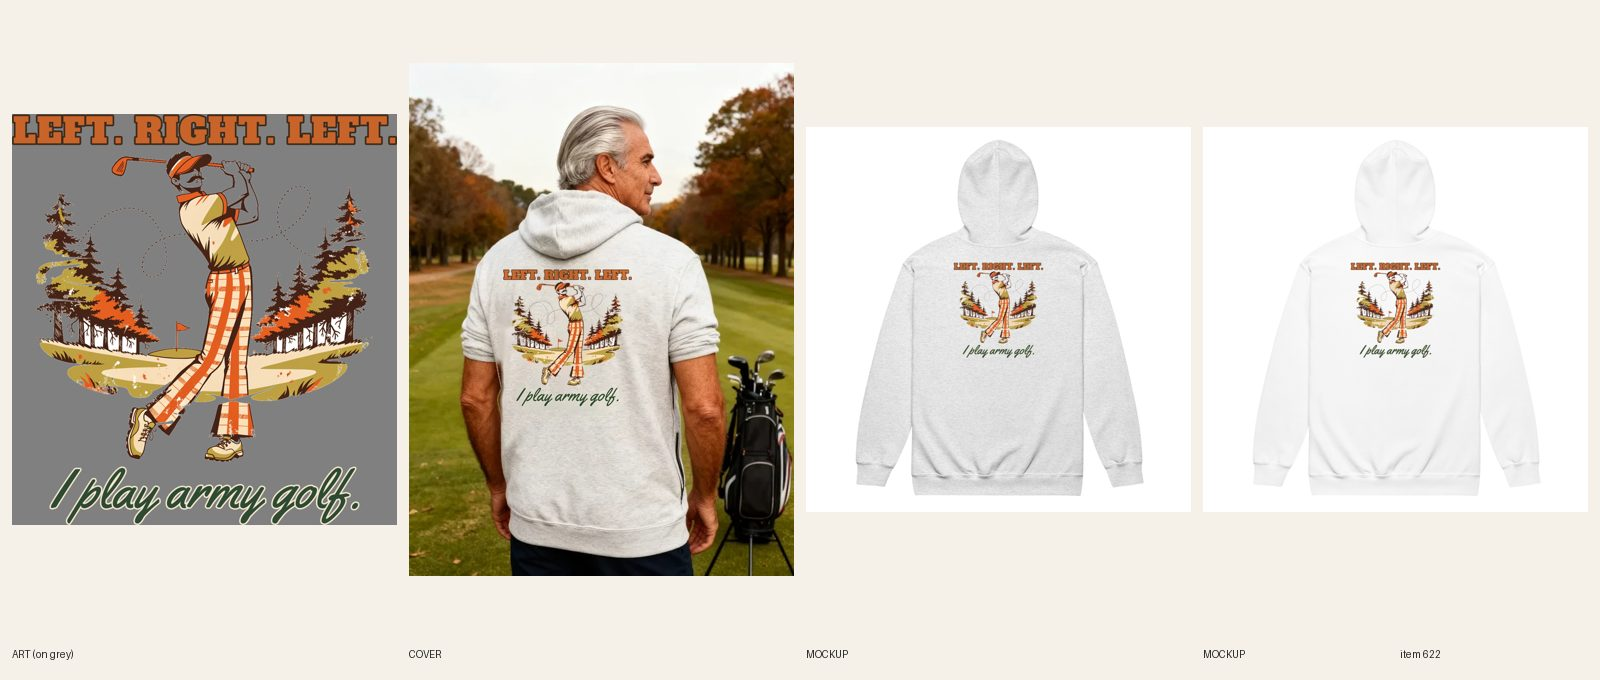
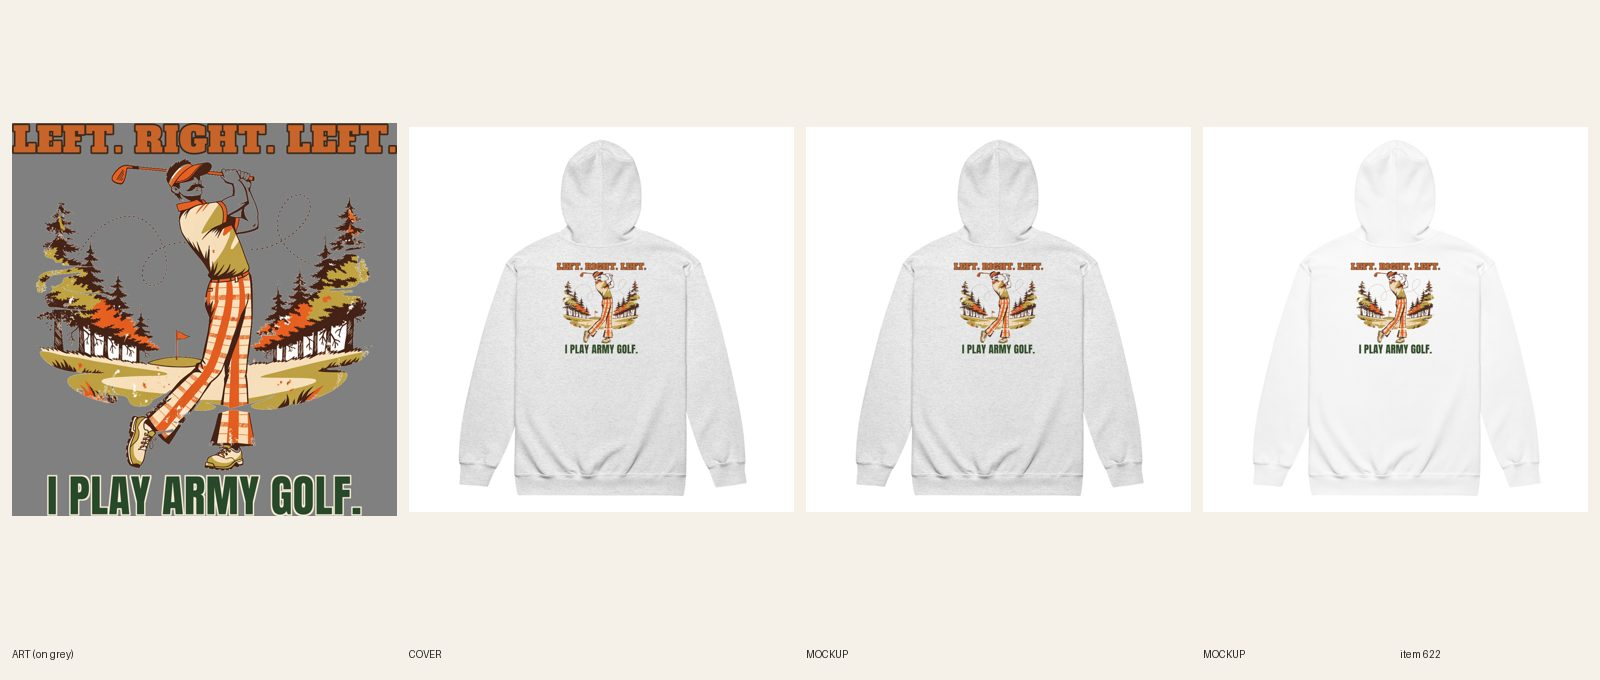
[C] review 622 (redo)
Claude-Session: https://claude.ai/code/session_01CCHcDj8LcJJ8qUPtKE3cvn

Changed region(s): [[0.0, 0.0926, 0.5, 0.8647], [0.8438, 0.4941, 0.9062, 0.525], [0.5938, 0.4941, 0.6562, 0.525]]

diff --git a/scripts/c-zip.py b/scripts/c-zip.py
@@ -1,0 +1,27 @@
+#!/usr/bin/env python3
+"""c-zip.py <dir> <sync_pid> <chest_fid> <BW> <BT> <CW> Colors=back.png [Colors=back2.png ...]   (lane C zip-up hoodie redo, Gildan 18600 #692)
+Uploads each back print, starts the paced pf-zip.py sync (back + the existing chest file) per color in the background (<dir>/sync_<Color>.log),
+makes one back mockup per color (<dir>/m_<Color>.jpg, murl_<Color>.txt). 'A+B' shares one file."""
+import os, sys, json, subprocess, time, urllib.request, shlex
+d, pid, chest, bw, bt, cw = sys.argv[1:7]; pairs = [a.split('=', 1) for a in sys.argv[7:]]
+H = {'Authorization': 'Bearer ' + os.environ['PRINTFUL_TOKEN'], 'User-Agent': 'gtc'}
+def get(p): return json.load(urllib.request.urlopen(urllib.request.Request('https://api.printful.com' + p, headers=H), timeout=60))['result']
+vs = get(f'/sync/products/{pid}')['sync_variants']; cf = get(f'/files/{chest}'); info = {}
+for colors, png in pairs:
+    url = subprocess.check_output([sys.executable, 'scripts/fal-host.py', png], text=True).strip()
+    fid = subprocess.check_output([sys.executable, 'scripts/pf-sync.py', 'upload', url, os.path.basename(png)], text=True).strip()
+    for _ in range(30):
+        f = get(f'/files/{fid}')
+        if f.get('width') and f.get('status') == 'ok': break
+        time.sleep(4)
+    info[colors] = (fid, f['width'], f['height'], f['url']); print(colors, fid, f['width'], f['height'], flush=True); open(f'{d}/fid_{colors}', 'w').write(fid)
+env = dict(os.environ, BW=bw, BT=bt, CW=cw, FORCE='1', CHEST_FID=chest, CHEST_H=str(cf['height']), CHEST_W=str(cf['width']))
+cmds = [f"ONLY={shlex.quote('/ ' + c + ' /')} {sys.executable} scripts/pf-zip.py sync {pid} {fid} {w} {h} > {shlex.quote(d + '/sync_' + c + '.log')} 2>&1" for colors, (fid, w, h, u) in info.items() for c in colors.split('+')]
+subprocess.Popen(['bash', '-c', ' ; '.join(cmds)], env=env, start_new_session=True, stdout=subprocess.DEVNULL, stderr=subprocess.DEVNULL)
+for colors, (fid, w, h, u) in info.items():
+    for c in colors.split('+'):
+        v = next(v for v in vs if f' / {c} / M' in v['name'] or f' / {c} / L' in v['name'])
+        e2 = dict(env, CHEST_URL=cf['url'])
+        subprocess.run([sys.executable, 'scripts/pf-zip.py', 'mockup', '692', u, str(w), str(h), str(v['variant_id']), f'{d}/mock_{c}.json'], env=e2, check=True, stdout=subprocess.DEVNULL)
+        m = json.load(open(f'{d}/mock_{c}.json'))[str(v['variant_id'])]; url = m.get('back:Back') or m['back:main']
+        open(f'{d}/m_{c}.jpg', 'wb').write(urllib.request.urlopen(url).read()); open(f'{d}/murl_{c}.txt', 'w').write(url); print(c, 'MOCKUP', url, flush=True)

diff --git a/designs/c622/make.py b/designs/c622/make.py
@@ -1,0 +1,29 @@
+from PIL import Image, ImageDraw, ImageFont, ImageFilter
+FD='designs/fonts/'
+RED=(196,52,44,255); GREEN=(40,72,42,255); CREAM=(246,236,214,255); BROWN=(58,36,24,255)
+def line(text,font,wfrac,W,fill,key,kw=31,track=0):
+    f=ImageFont.truetype(FD+font,800); adv=[f.getlength(c) for c in text]
+    tot=sum(adv)+track*(len(text)-1); size=int(800*W*wfrac/tot)
+    f=ImageFont.truetype(FD+font,size); adv=[f.getlength(c) for c in text]; tr=int(track*size/800)
+    asc,desc=f.getmetrics(); tot=int(sum(adv)+tr*(len(text)-1))
+    pad=80; im=Image.new('RGBA',(tot+2*pad,asc+desc+2*pad),(0,0,0,0))
+    def draw(layer,col):
+        d=ImageDraw.Draw(layer); x=pad
+        for c,a in zip(text,adv): d.text((x,pad),c,font=f,fill=col); x+=a+tr
+    k=Image.new('L',im.size,0); d=ImageDraw.Draw(k); x=pad
+    for c,a in zip(text,adv): d.text((x,pad),c,font=f,fill=255); x+=a+tr
+    k=k.filter(ImageFilter.MaxFilter(kw)); im.paste(Image.new('RGBA',im.size,key),(0,0),k)
+    draw(im,fill)
+    return im.crop(im.getbbox())
+src=Image.open('docs/print-files/622-army-golf-back.png').convert('RGBA')
+W=src.width; head=src.crop((0,0,W,270)); art=src.crop((0,310,W,2974))
+h2=line("I PLAY ARMY GOLF.",'Anton-Regular.ttf',0.82,W,GREEN,CREAM,kw=25,track=14)
+print('h2',h2.size,'ratio h2/head',h2.height/270)
+g=34; H=270+g+art.height+g+h2.height
+out=Image.new('RGBA',(W,H),(0,0,0,0))
+out.alpha_composite(head,(0,0)); y=270+g
+out.alpha_composite(art,(0,y)); y+=art.height+g
+out.alpha_composite(h2,((W-h2.width)//2,y))
+out.save('docs/print-files/622-v2-army-golf.png'); print(out.size,H/W)
+for n,c in (('ash',(200,200,200,255)),('white',(250,250,250,255))):
+    bg=Image.new('RGBA',out.size,c); bg.alpha_composite(out); bg.convert('RGB').resize((600,int(600*H/W))).save(f'designs/c622/prev_{n}.png')

diff --git a/docs/pipeline/622-golf-zip-hoodie-i-play-army-golf.md b/docs/pipeline/622-golf-zip-hoodie-i-play-army-golf.md
@@ -1,4 +1,4 @@
-status: REDO
+status: REVIEW
 shopify: gid://shopify/Product/15364920639792
 lane: C
 type: twin
@@ -29,3 +29,4 @@ kd: 16
 - 2026-10-18 08:25 UTC builder [C]: Printful relink verified 12/12 (6 Ash + 6 White: back 1088715576, chest copy 1088763720); REVIEW.
 - 2026-10-18 09:22 UTC director: LIVE. approved from docs/review/622.jpg. Copy: 'one of the easier golf gifts' and 'Is this one of the good golf gifts for him?' rewritten (R8.3). ACTIVE + Online Store/Headless/Google & YouTube, audit --handle PASS (0 warn).
 - 2026-10-18 17:22 UTC director: QUALITY RESET grade B (type only), REDO. The product stays ACTIVE (same handle, URL, title keyword). Keep the line "Left. Right. Left. / I play army golf." and the art. 1. Type: Short thin headline bar, thin green script line below art (step-back layout). 2. Quality reset type bar (docs/backlog/quality-reset.md, 'The new bar'): headline at least 90% of the art width, heavy, colors pulled from the art; second line at least 45% of the headline's height, never a thin script on a dark or mid garment; use the lettering as a shape (arch, stacked lockup, words breaking into the art), not a plain bar above and a script line below; no font used on more than 1 in 6 of the last 30 designs. 3. New print file means a new cover per R6.10 and a fresh review sheet (R7.7). While quality-reset.md says PAUSED, only lane A builds, and only the samples step 2 names.
+- 2026-10-20 08:10 UTC builder [C]: REDO type only (grade B). Art and line kept. LEFT. RIGHT. LEFT. (Alfa Slab, burnt orange, ~92% of the art width) kept as the headline; thin green script I play army golf. replaced by I PLAY ARMY GOLF. in Anton, 82% width, dark green with cream keyline, 131% of the headline's height. Ash + White are both light, no cream fills, one back file 1090161443 (3288 x 3356, docs/print-files/622-v2-army-golf.png), BW 1560 BT 225, chest file 1088763720 unchanged, 12/12 relinked. Both back mockups replaced in place, read at phone size. Story and back-print FAQ say heavy green capitals. Plain product shot. fal $0.

diff --git a/docs/intake-log.md b/docs/intake-log.md
@@ -14,6 +14,7 @@ RUNNING lane B since 2026-10-20 03:28 UTC
 2026-10-20 03:41 UTC — [B] Builder run: redid #362 Women's Baseball hoodie (line + type: MISSED THE PLAY. / SEEDS WERE GOOD., same art, Bowlby One, Navy + Sand light files, 12/12 synced). REVIEW. fal $0.
 2026-10-20 05:26 UTC — [E] Builder run: redid #388 Women's Christmas crewneck (line + type: SORRY, I'M BOOKED TILL JANUARY., new party-calendar art, Navy + Sand files, 12/12 synced, copy updated, plain product shot). REVIEW. fal $0.08.
 RUNNING lane C since 2026-10-20 03:23 UTC
+2026-10-20 08:12 UTC — [C] Builder run: redid #622 Men's Golf army golf zip hoodie (type only: I PLAY ARMY GOLF. in Anton heavy green, headline kept, back file 1090161443, 12/12 relinked, 2 back mockups replaced in place, copy updated, plain product shot). REVIEW. fal $0.
 2026-10-20 07:32 UTC — [C] Builder run: redid #503 Men's Golf heavyweight hoodie (new line + type: MY SWING IS FINE. / THE TREES MOVED., Anton + Bowlby One, same golfer art, Sandstone file 1090158606 + Storm Blue file 1090158696, FW 1500 TOP 30, 14/14 relinked, 2 fronts replaced in place, copy + SEO updated, plain product shot). REVIEW. fal $0.
 2026-10-20 06:47 UTC — [C] Builder run: redid #495 Men's Gym medieval hoodie (new line + type: LEG DAY CLAIMED / ANOTHER KNIGHT., Cinzel Black + Bevan, same knight art, Sand file 1090154570 + Navy cream-top file 1090155376, FW 1500 TOP 0, 12/12 relinked, 2 fronts replaced in place, copy + SEO updated, plain product shot). REVIEW. fal $0.
 2026-10-20 06:07 UTC — [C] Builder run: redid #323 Women's Capybara oversized hoodie (new line + type: PER MY LAST EMAIL, / I'M SOAKING., Anton + Bowlby One, same hot-spring art, Dust file 1090151395 + Navy cream-top file, FW 1500 TOP 75, 12/12 relinked, 2 fronts replaced in place, copy + SEO updated, plain product shot). REVIEW. fal $0.
